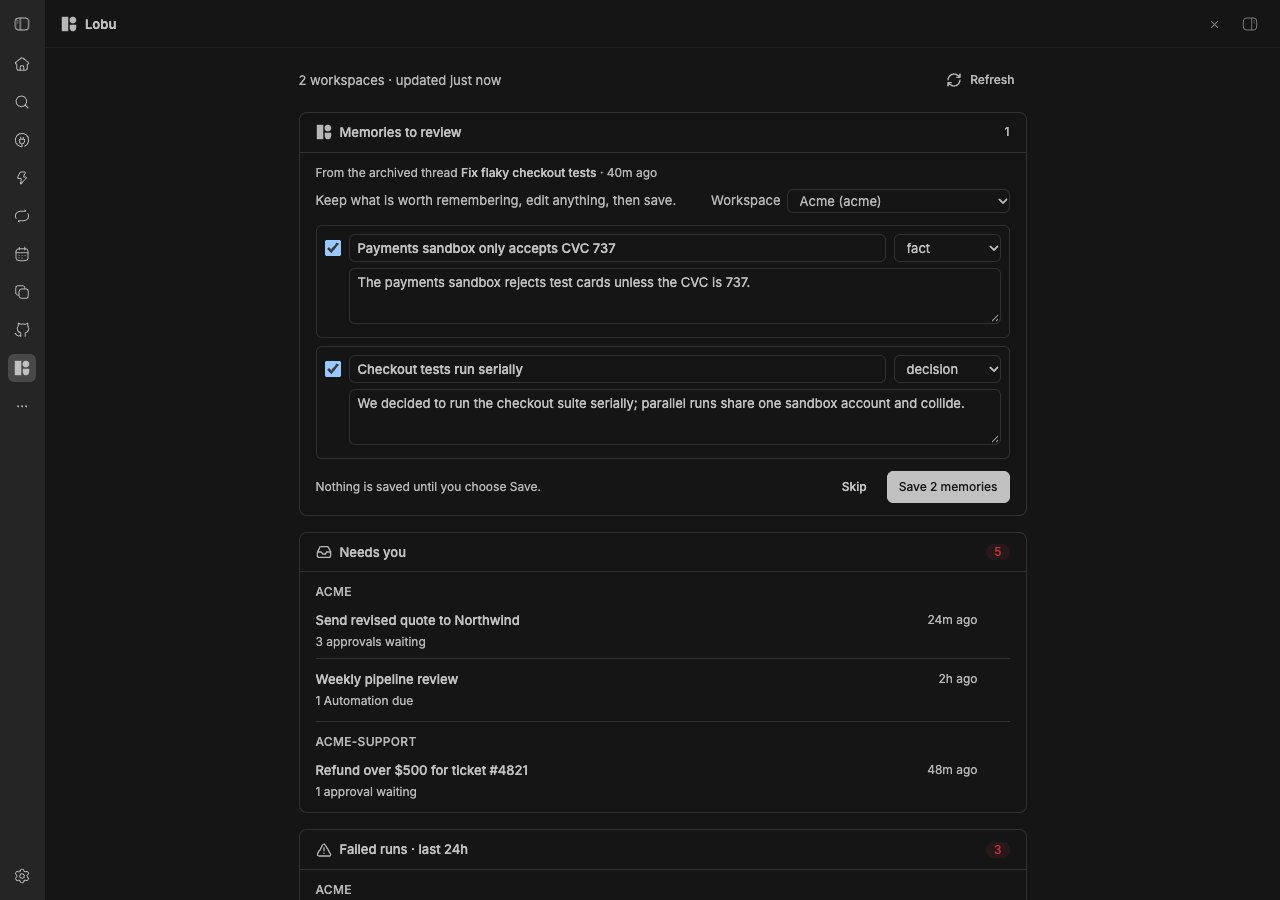
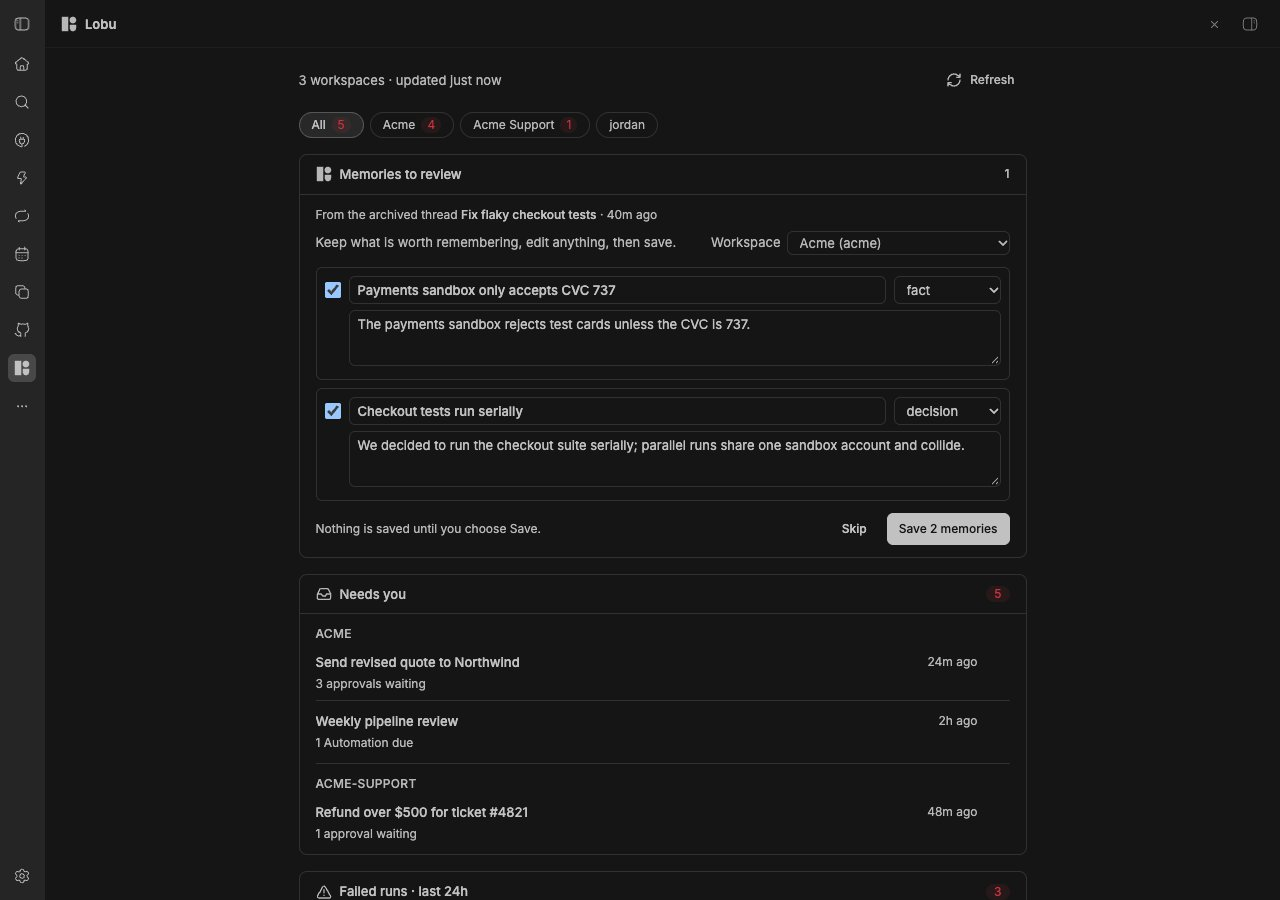
feat: read every CLI login and filter the Lobu page by workspace

diff --git a/components/dashboard.tsx b/components/dashboard.tsx
@@ -273,9 +273,8 @@ function SetupCard({ setup }: { setup: NonNullable<Snapshot["setup"]> }) {
         </p>
       ) : (
         <p>
-          Check the plugin's "Lobu CLI contexts" and "Hidden workspaces" settings, or log in to another workspace
-          with <Command>lobu context add &lt;name&gt; --url https://app.lobu.ai/api/v1</Command> and{" "}
-          <Command>lobu login --context &lt;name&gt;</Command>, then add that context.
+          Check the plugin's "Hidden workspaces" setting, or run <Command>lobu login</Command> again and approve the
+          workspaces you want. Every CLI login on this Lobu appears here.
         </p>
       )}
     </section>
@@ -345,13 +344,74 @@ function PendingReviews() {
   );
 }
 
+const FILTER_KEY = "lobu.dashboard.workspace";
+
+function readFilter(): string | null {
+  try {
+    return localStorage.getItem(FILTER_KEY);
+  } catch {
+    return null;
+  }
+}
+
+/** The workspace the page is narrowed to, remembered across visits; null shows all. */
+function useWorkspaceFilter(all: WorkspaceSummary[]) {
+  const [selected, setSelected] = useState<string | null>(readFilter);
+  const choose = (slug: string | null) => {
+    setSelected(slug);
+    try {
+      if (slug === null) localStorage.removeItem(FILTER_KEY);
+      else localStorage.setItem(FILTER_KEY, slug);
+    } catch {
+      // Storage can be unavailable; the choice then lasts for this visit.
+    }
+  };
+  const active = selected !== null && all.some((w) => w.slug === selected) ? selected : null;
+  return { active, choose, shown: active === null ? all : all.filter((w) => w.slug === active) };
+}
+
+function WorkspaceChips({
+  workspaces,
+  active,
+  onChoose,
+}: {
+  workspaces: WorkspaceSummary[];
+  active: string | null;
+  onChoose: (slug: string | null) => void;
+}) {
+  const chip = (slug: string | null, label: string, waiting: number) => (
+    <button
+      key={slug ?? "__all"}
+      type="button"
+      aria-pressed={active === slug}
+      onClick={() => onChoose(slug)}
+      className={cn(
+        "flex shrink-0 items-center gap-1.5 rounded-full border px-3 py-1 text-xs transition-colors",
+        active === slug
+          ? "border-foreground/30 bg-accent text-foreground"
+          : "border-border text-muted-foreground hover:bg-accent/50 hover:text-foreground",
+      )}
+    >
+      {label}
+      {waiting > 0 ? <span className="rounded-full bg-destructive/10 px-1.5 text-destructive">{formatCount(waiting)}</span> : null}
+    </button>
+  );
+  return (
+    <nav aria-label="Workspaces" className="flex flex-wrap gap-1.5">
+      {chip(null, "All", total(workspaces, (w) => countOf(w.needsYou)))}
+      {workspaces.map((w) => chip(w.slug, w.name === w.slug ? w.slug : w.name, countOf(w.needsYou)))}
+    </nav>
+  );
+}
+
 export function DashboardPage() {
   const { snapshot, error, loading, refresh } = useSnapshot();
   const ask = useAskAgent();
-  const workspaces = snapshot?.workspaces ?? [];
+  const all = snapshot?.workspaces ?? [];
+  const { active, choose, shown: workspaces } = useWorkspaceFilter(all);
   const problems = [
     ...(snapshot?.errors ?? []),
-    ...workspaces.filter((w) => w.error !== null).map((w) => `${w.slug}: ${w.error}`),
+    ...all.filter((w) => w.error !== null).map((w) => `${w.slug}: ${w.error}`),
   ];
   const devices = snapshot?.devices ?? [];
   return (
@@ -359,7 +419,7 @@ export function DashboardPage() {
       <div className="mx-auto box-border w-full max-w-3xl space-y-4 px-4 pb-6 pt-3 md:px-5 md:pt-4">
         <div className="flex items-center gap-2 text-sm text-muted-foreground">
           <span>
-            {workspaces.length} workspace{workspaces.length === 1 ? "" : "s"}
+            {all.length} workspace{all.length === 1 ? "" : "s"}
             {snapshot === null ? null : ` · updated ${relativeTime(snapshot.fetchedAt)}`}
           </span>
           <Button variant="ghost" size="sm" className="ml-auto" onClick={refresh} disabled={loading}>
@@ -373,6 +433,7 @@ export function DashboardPage() {
           </p>
         )}
         {snapshot?.setup ? <SetupCard setup={snapshot.setup} /> : null}
+        {all.length > 1 ? <WorkspaceChips workspaces={all} active={active} onChoose={choose} /> : null}
         <PendingReviews />
         {problems.length === 0 ? null : (
           <ul className="space-y-1 rounded-lg border border-destructive/40 px-4 py-3 text-xs text-destructive">

diff --git a/server.ts b/server.ts
@@ -54,13 +54,6 @@ function trimTrailingSlashes(url: string): string {
 
 export default async function plugin(bb: BbPluginApi) {
   const settings = bb.settings.define({
-    contexts: {
-      type: "string",
-      label: "Lobu CLI contexts",
-      description:
-        "Comma-separated `lobu` CLI contexts to read. Leave empty for the CLI's active context. Every workspace a login is authorized for appears. Add one with `lobu context add <name> --url https://app.lobu.ai/api/v1`, then `lobu login --context <name>`.",
-      default: "",
-    },
     hiddenWorkspaces: {
       type: "string",
       label: "Hidden workspaces",
@@ -123,13 +116,17 @@ export default async function plugin(bb: BbPluginApi) {
   let cached: { at: number; snapshot: Snapshot } | null = null;
   let inFlight: Promise<Snapshot> | null = null;
 
+  /** Every CLI login on this Lobu, or the CLI's active context when it cannot list them. */
+  async function loginContexts(): Promise<(string | null)[]> {
+    return (await api.contexts()) ?? [null];
+  }
+
   async function snapshot(refresh: boolean): Promise<Snapshot> {
     if (!refresh && cached !== null && Date.now() - cached.at < CACHE_MS) return cached.snapshot;
     inFlight ??= (async () => {
-      const { contexts, hiddenWorkspaces, metrics } = await settings.get();
-      const named = parseList(contexts);
+      const { hiddenWorkspaces, metrics } = await settings.get();
       return buildSnapshot(api, {
-        contexts: named.length === 0 ? [null] : named,
+        contexts: await loginContexts(),
         hiddenWorkspaces: new Set(parseList(hiddenWorkspaces)),
         baseUrl: (await apiOptions()).baseUrl,
         pins: parsePins(metrics) ?? [],
@@ -151,15 +148,10 @@ export default async function plugin(bb: BbPluginApi) {
   /** The workspace the user last saved memories to. */
   const PREFERRED_WORKSPACE = "memoryWorkspace";
 
-  /**
-   * Shows the review form in the thread and saves what the user keeps.
-   * Resolves to null when the user skips. Nothing is saved without a submit.
-   */
   /** The review form for these drafts, with the workspaces the user can save to. */
   async function formFor(drafts: MemoryDraft[]): Promise<{ owners: Map<string, WorkspaceOwner>; form: RememberForm }> {
-    const { contexts, hiddenWorkspaces } = await settings.get();
-    const named = parseList(contexts);
-    const { owners, setup } = await discoverWorkspaces(api, named.length === 0 ? [null] : named);
+    const { hiddenWorkspaces } = await settings.get();
+    const { owners, setup } = await discoverWorkspaces(api, await loginContexts());
     for (const slug of parseList(hiddenWorkspaces)) owners.delete(slug);
     if (owners.size === 0) throw new Error(setup?.message ?? "No Lobu workspace is available. Open the Lobu page for setup steps.");
     const preferred = (await bb.storage.kv.get<string>(PREFERRED_WORKSPACE)) ?? null;
@@ -181,6 +173,10 @@ export default async function plugin(bb: BbPluginApi) {
     return outcome;
   }
 
+  /**
+   * Shows the review form in the thread and saves what the user keeps.
+   * Resolves to null when the user skips. Nothing is saved without a submit.
+   */
   async function review(
     threadId: string,
     drafts: MemoryDraft[],
@@ -323,7 +319,8 @@ export default async function plugin(bb: BbPluginApi) {
         if (source !== null) {
           const recap = { id: randomUUID(), sourceThreadId: source.threadId, sourceTitle: source.title, createdAt: Date.now(), drafts: memories };
           await updatePending((list) => ({ list: addPending(list, recap), result: null }));
-          return `Queued ${memories.length} for the user to review on the Lobu page. Nothing is saved until they do.`;
+          const count = `${memories.length} ${memories.length === 1 ? "memory" : "memories"}`;
+          return `Nothing was saved. ${count} now wait for the user to review on the Lobu page. Reply with exactly: "Queued ${count} for review on the Lobu page."`;
         }
         return outcomeForAgent(await review(threadId, memories, signal));
       } catch (cause) {

diff --git a/lib/lobu-api.ts b/lib/lobu-api.ts
@@ -5,6 +5,7 @@ import { existsSync } from "node:fs";
 import { homedir } from "node:os";
 import { join } from "node:path";
 import { promisify } from "node:util";
+import { z } from "zod";
 import type { SetupCode } from "./contract";
 
 const execFileAsync = promisify(execFile);
@@ -54,6 +55,29 @@ export function resolveLobuBin(configured: string): string {
   if (configured !== "") return configured;
   const bunBin = join(homedir(), ".bun", "bin", "lobu");
   return existsSync(bunBin) ? bunBin : "lobu";
+}
+
+const cliContextsSchema = z.object({
+  contexts: z.array(z.object({ name: z.string(), url: z.string(), current: z.boolean(), loggedIn: z.boolean() })),
+});
+
+function originOf(url: string): string | null {
+  try {
+    return new URL(url).origin;
+  } catch {
+    return null;
+  }
+}
+
+/** Contexts with a login on this Lobu, the active one first, from `lobu context list --json`. */
+export function contextsForLobu(listed: unknown, baseUrl: string): string[] {
+  const parsed = cliContextsSchema.safeParse(listed);
+  if (!parsed.success) return [];
+  const origin = originOf(baseUrl);
+  return parsed.data.contexts
+    .filter((context) => context.loggedIn && origin !== null && originOf(context.url) === origin)
+    .sort((a, b) => Number(b.current) - Number(a.current))
+    .map((context) => context.name);
 }
 
 export function createLobuApi({ baseUrl, lobuBin }: LobuApiOptions) {
@@ -118,6 +142,22 @@ export function createLobuApi({ baseUrl, lobuBin }: LobuApiOptions) {
   }
 
   return {
+    /**
+     * Every CLI login on this Lobu, so each workspace the user authorized
+     * appears without configuration. Null when the CLI cannot list them
+     * (missing, or older than `context list --json`); callers then use the
+     * active context.
+     */
+    async contexts(): Promise<string[] | null> {
+      try {
+        const { stdout } = await execFileAsync(resolveLobuBin(lobuBin), ["context", "list", "--json"], { timeout: 20_000 });
+        const names = contextsForLobu(JSON.parse(stdout), baseUrl);
+        return names.length === 0 ? null : names;
+      } catch {
+        return null;
+      }
+    },
+
     /** Workspaces the login for this CLI context is authorized for. */
     async workspaces(context: string | null): Promise<Workspace[]> {
       const info = (await request(context, "/oauth/userinfo")) as {

diff --git a/test/contexts.test.ts b/test/contexts.test.ts
@@ -1,0 +1,28 @@
+import { describe, expect, test } from "bun:test";
+import { contextsForLobu } from "../lib/lobu-api";
+
+const listed = {
+  current: "side",
+  contexts: [
+    { name: "work", url: "https://app.lobu.example/api/v1", current: false, loggedIn: true },
+    { name: "side", url: "https://app.lobu.example/api/v1", current: true, loggedIn: true },
+    { name: "stale", url: "https://app.lobu.example/api/v1", current: false, loggedIn: false },
+    { name: "local", url: "http://localhost:8787", current: false, loggedIn: true },
+    { name: "broken", url: "not a url", current: false, loggedIn: true },
+  ],
+};
+
+describe("contextsForLobu", () => {
+  test("keeps logged-in contexts on this Lobu, the active one first", () => {
+    expect(contextsForLobu(listed, "https://app.lobu.example")).toEqual(["side", "work"]);
+  });
+
+  test("matches a self-hosted Lobu by origin", () => {
+    expect(contextsForLobu(listed, "http://localhost:8787")).toEqual(["local"]);
+  });
+
+  test("returns nothing for output it does not understand", () => {
+    expect(contextsForLobu({ contexts: "nope" }, "https://app.lobu.example")).toEqual([]);
+    expect(contextsForLobu(null, "https://app.lobu.example")).toEqual([]);
+  });
+});

diff --git a/test/snapshot.test.ts b/test/snapshot.test.ts
@@ -118,6 +118,19 @@ describe("buildSnapshot", () => {
     expect(snapshot.workspaces).toEqual([]);
   });
 
+  test("lists an expired login as a problem when other logins work", async () => {
+    const { api } = fakeApi({
+      workspaces: async (context) => {
+        if (context === "stale") throw new LobuSetupError("not_logged_in", context, "Lobu rejected the login for stale.");
+        return [{ slug: "acme", name: "Acme" }];
+      },
+    });
+    const snapshot = await buildSnapshot(api, config({ contexts: ["work", "stale"] }));
+    expect(snapshot.setup).toBeNull();
+    expect(snapshot.errors).toEqual(["stale: Lobu rejected the login for stale."]);
+    expect(snapshot.workspaces.map((w) => w.slug)).toEqual(["acme"]);
+  });
+
   test("reports no visible workspaces as a setup problem", async () => {
     const { api } = fakeApi({ workspaces: async () => [{ slug: "acme", name: "Acme" }] });
     const snapshot = await buildSnapshot(api, config({ hiddenWorkspaces: new Set(["acme"]) }));

diff --git a/lib/snapshot.ts b/lib/snapshot.ts
@@ -138,7 +138,13 @@ export async function discoverWorkspaces(api: LobuApi, contexts: (string | null)
       if (!owners.has(slug)) owners.set(slug, { context, name, personal });
     }
   });
-  return { owners, setup: setup as Snapshot["setup"], errors };
+  // Setup steps only when nothing is reachable; one expired login among working ones is a problem line.
+  const found = setup as Snapshot["setup"];
+  if (found !== null && owners.size > 0) {
+    errors.push(`${found.context ?? "active context"}: ${found.message}`);
+    return { owners, setup: null, errors };
+  }
+  return { owners, setup: found, errors };
 }
 
 export async function buildSnapshot(api: LobuApi, config: SnapshotConfig): Promise<Snapshot> {

diff --git a/README.md b/README.md
@@ -8,7 +8,9 @@ memory, without leaving bb.
 
 ## What you get
 
-A **Lobu** page in the bb sidebar with five cards, grouped by workspace:
+A **Lobu** page in the bb sidebar covering every workspace your `lobu` CLI
+logins can reach. A row of workspace chips at the top narrows the page to one
+workspace (the choice is remembered), and the cards are grouped by workspace:
 
 - **Needs you**: pending approvals and Automations that are due. Identical
   requests collapse into one row ("36 approvals waiting") that links to all of
@@ -90,8 +92,9 @@ bb plugin install git:https://github.com/lobu-ai/bb-plugin-lobu.git
 
 ## How it talks to Lobu
 
-The plugin reuses your `lobu` CLI login. For each configured CLI context it
-runs `lobu token --raw`, asks Lobu which workspaces that login covers, and
+The plugin reuses your `lobu` CLI logins. It runs `lobu context list --json`
+and keeps every context that is logged in to the configured Lobu URL. For each
+one it runs `lobu token --raw`, asks Lobu which workspaces that login covers, and
 makes one read-only `query_sdk` call per workspace. The summary is computed
 inside Lobu, so only the rows the page shows come back. Results are cached for
 a minute and the page refreshes every two minutes.
@@ -108,7 +111,6 @@ Open them in bb under Settings → Plugins → Lobu, or use `bb plugin config lo
 
 | Setting | Default | Description |
 |---|---|---|
-| `contexts` | empty | Comma-separated `lobu` CLI contexts. Empty uses the CLI's active context. A login only covers the workspaces you authorized; add another with `lobu context add <name> --url https://app.lobu.ai/api/v1` and `lobu login --context <name>`, then list it here. |
 | `hiddenWorkspaces` | empty | Comma-separated workspace slugs to leave out. |
 | `metrics` | `[]` | JSON array of metric queries, for example `[{"workspace":"acme","entity_type":"company","measure":"spend","by":["month"],"label":"Spend by month"}]`. |
 | `baseUrl` | `https://app.lobu.ai` | Change only for a self-hosted Lobu. |
@@ -119,10 +121,13 @@ Open them in bb under Settings → Plugins → Lobu, or use `bb plugin config lo
 
 ## Notes
 
-- The page shows the workspaces your CLI login covers, nothing more. If you
-  see fewer than you expect, your login was authorized for fewer: run `lobu
-  login` again and pick them all, or list a context that covers them in
-  `contexts` (`lobu context list` shows yours).
+- The page shows the workspaces your CLI logins cover, nothing more. Each
+  login only covers the workspaces you approved when you ran `lobu login`. If
+  one is missing, run `lobu login` again and approve it, or log in another
+  context with `lobu context add <name> --url https://app.lobu.ai/api/v1` and
+  `lobu login --context <name>`; it shows up on the next refresh.
+- Reading every login needs a Lobu CLI with `lobu context list --json`. An
+  older CLI shows only its active context's workspaces.
 - "Items synced" counts every item a feed run fetched, including ones it had
   already seen, so it measures sync volume rather than new data.
 - The 24-hour activity scan reads at most the newest 3,000 feed runs per

diff --git a/CHANGELOG.md b/CHANGELOG.md
@@ -1,5 +1,15 @@
 # Changelog
 
+## 0.4.0
+
+- Every `lobu` CLI login on your Lobu is read, so all the workspaces you
+  approved appear without configuration. The `contexts` setting is gone.
+  Needs a CLI with `lobu context list --json`; older CLIs show the active
+  context only.
+- Workspace chips at the top of the Lobu page narrow it to one workspace and
+  remember the choice.
+- Recap threads now say their memories are queued for review, not saved.
+
 ## 0.3.0
 
 - Recap on archive: with **Recap archived threads** on, archiving a thread
